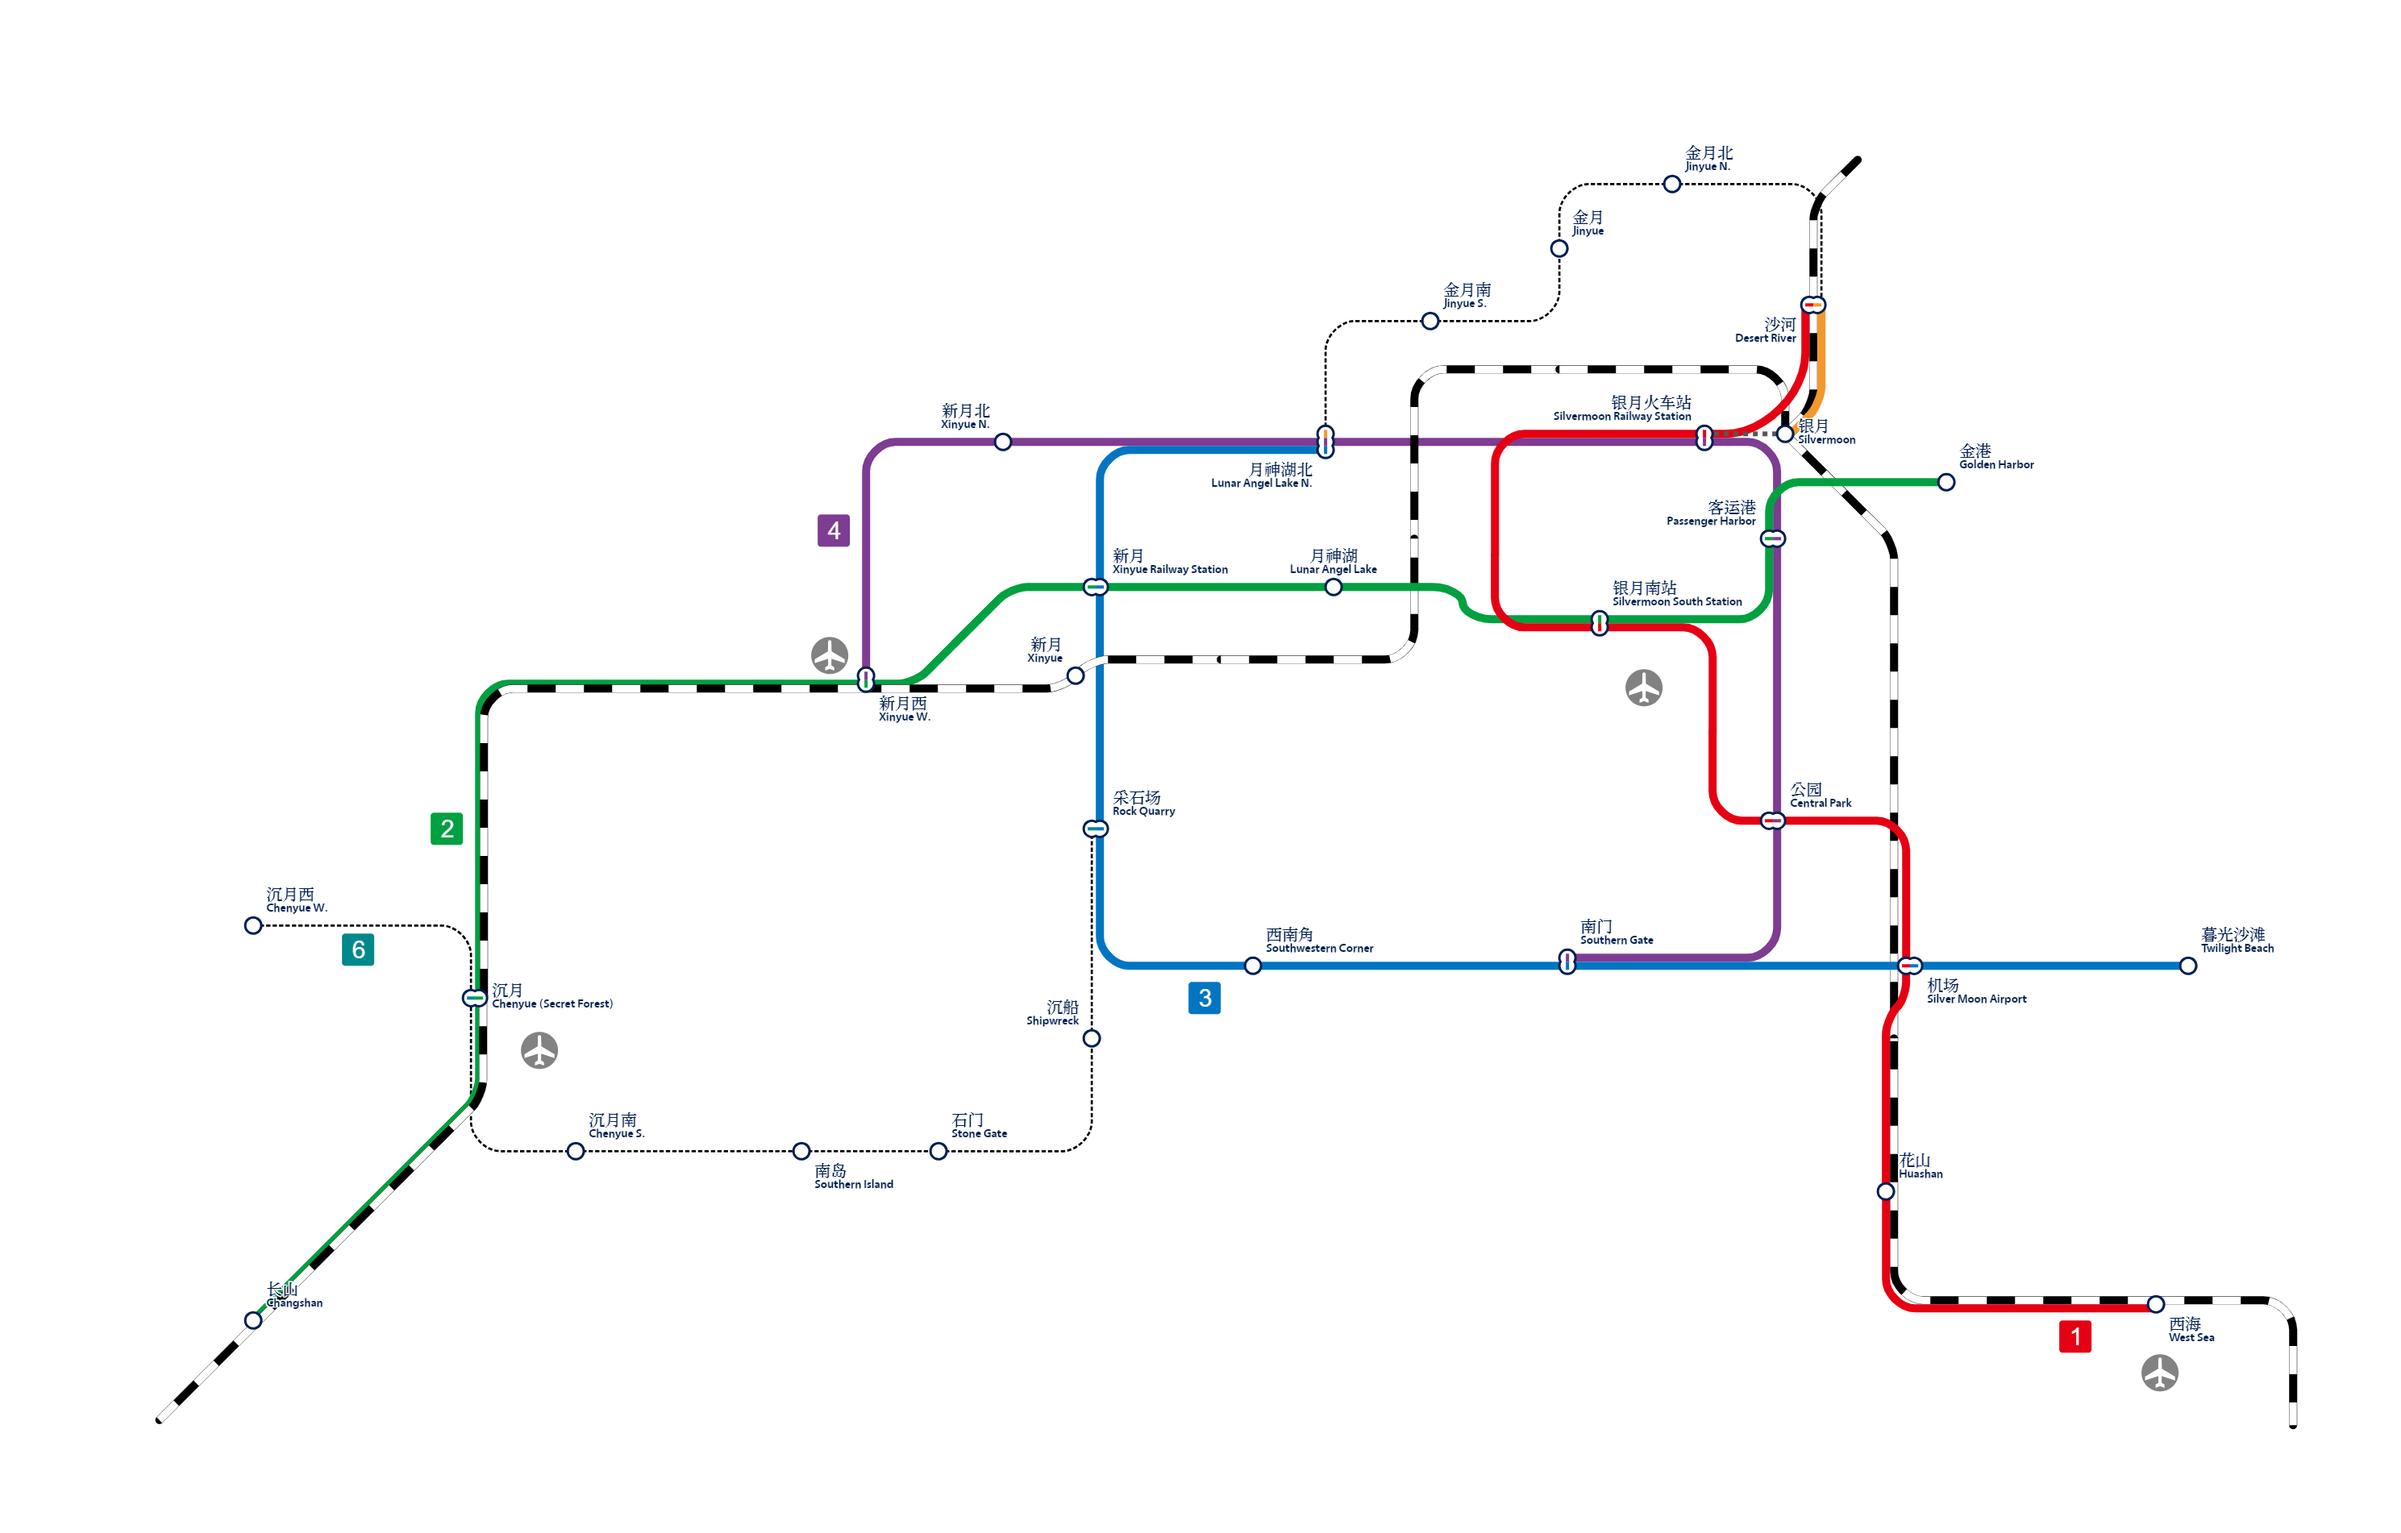
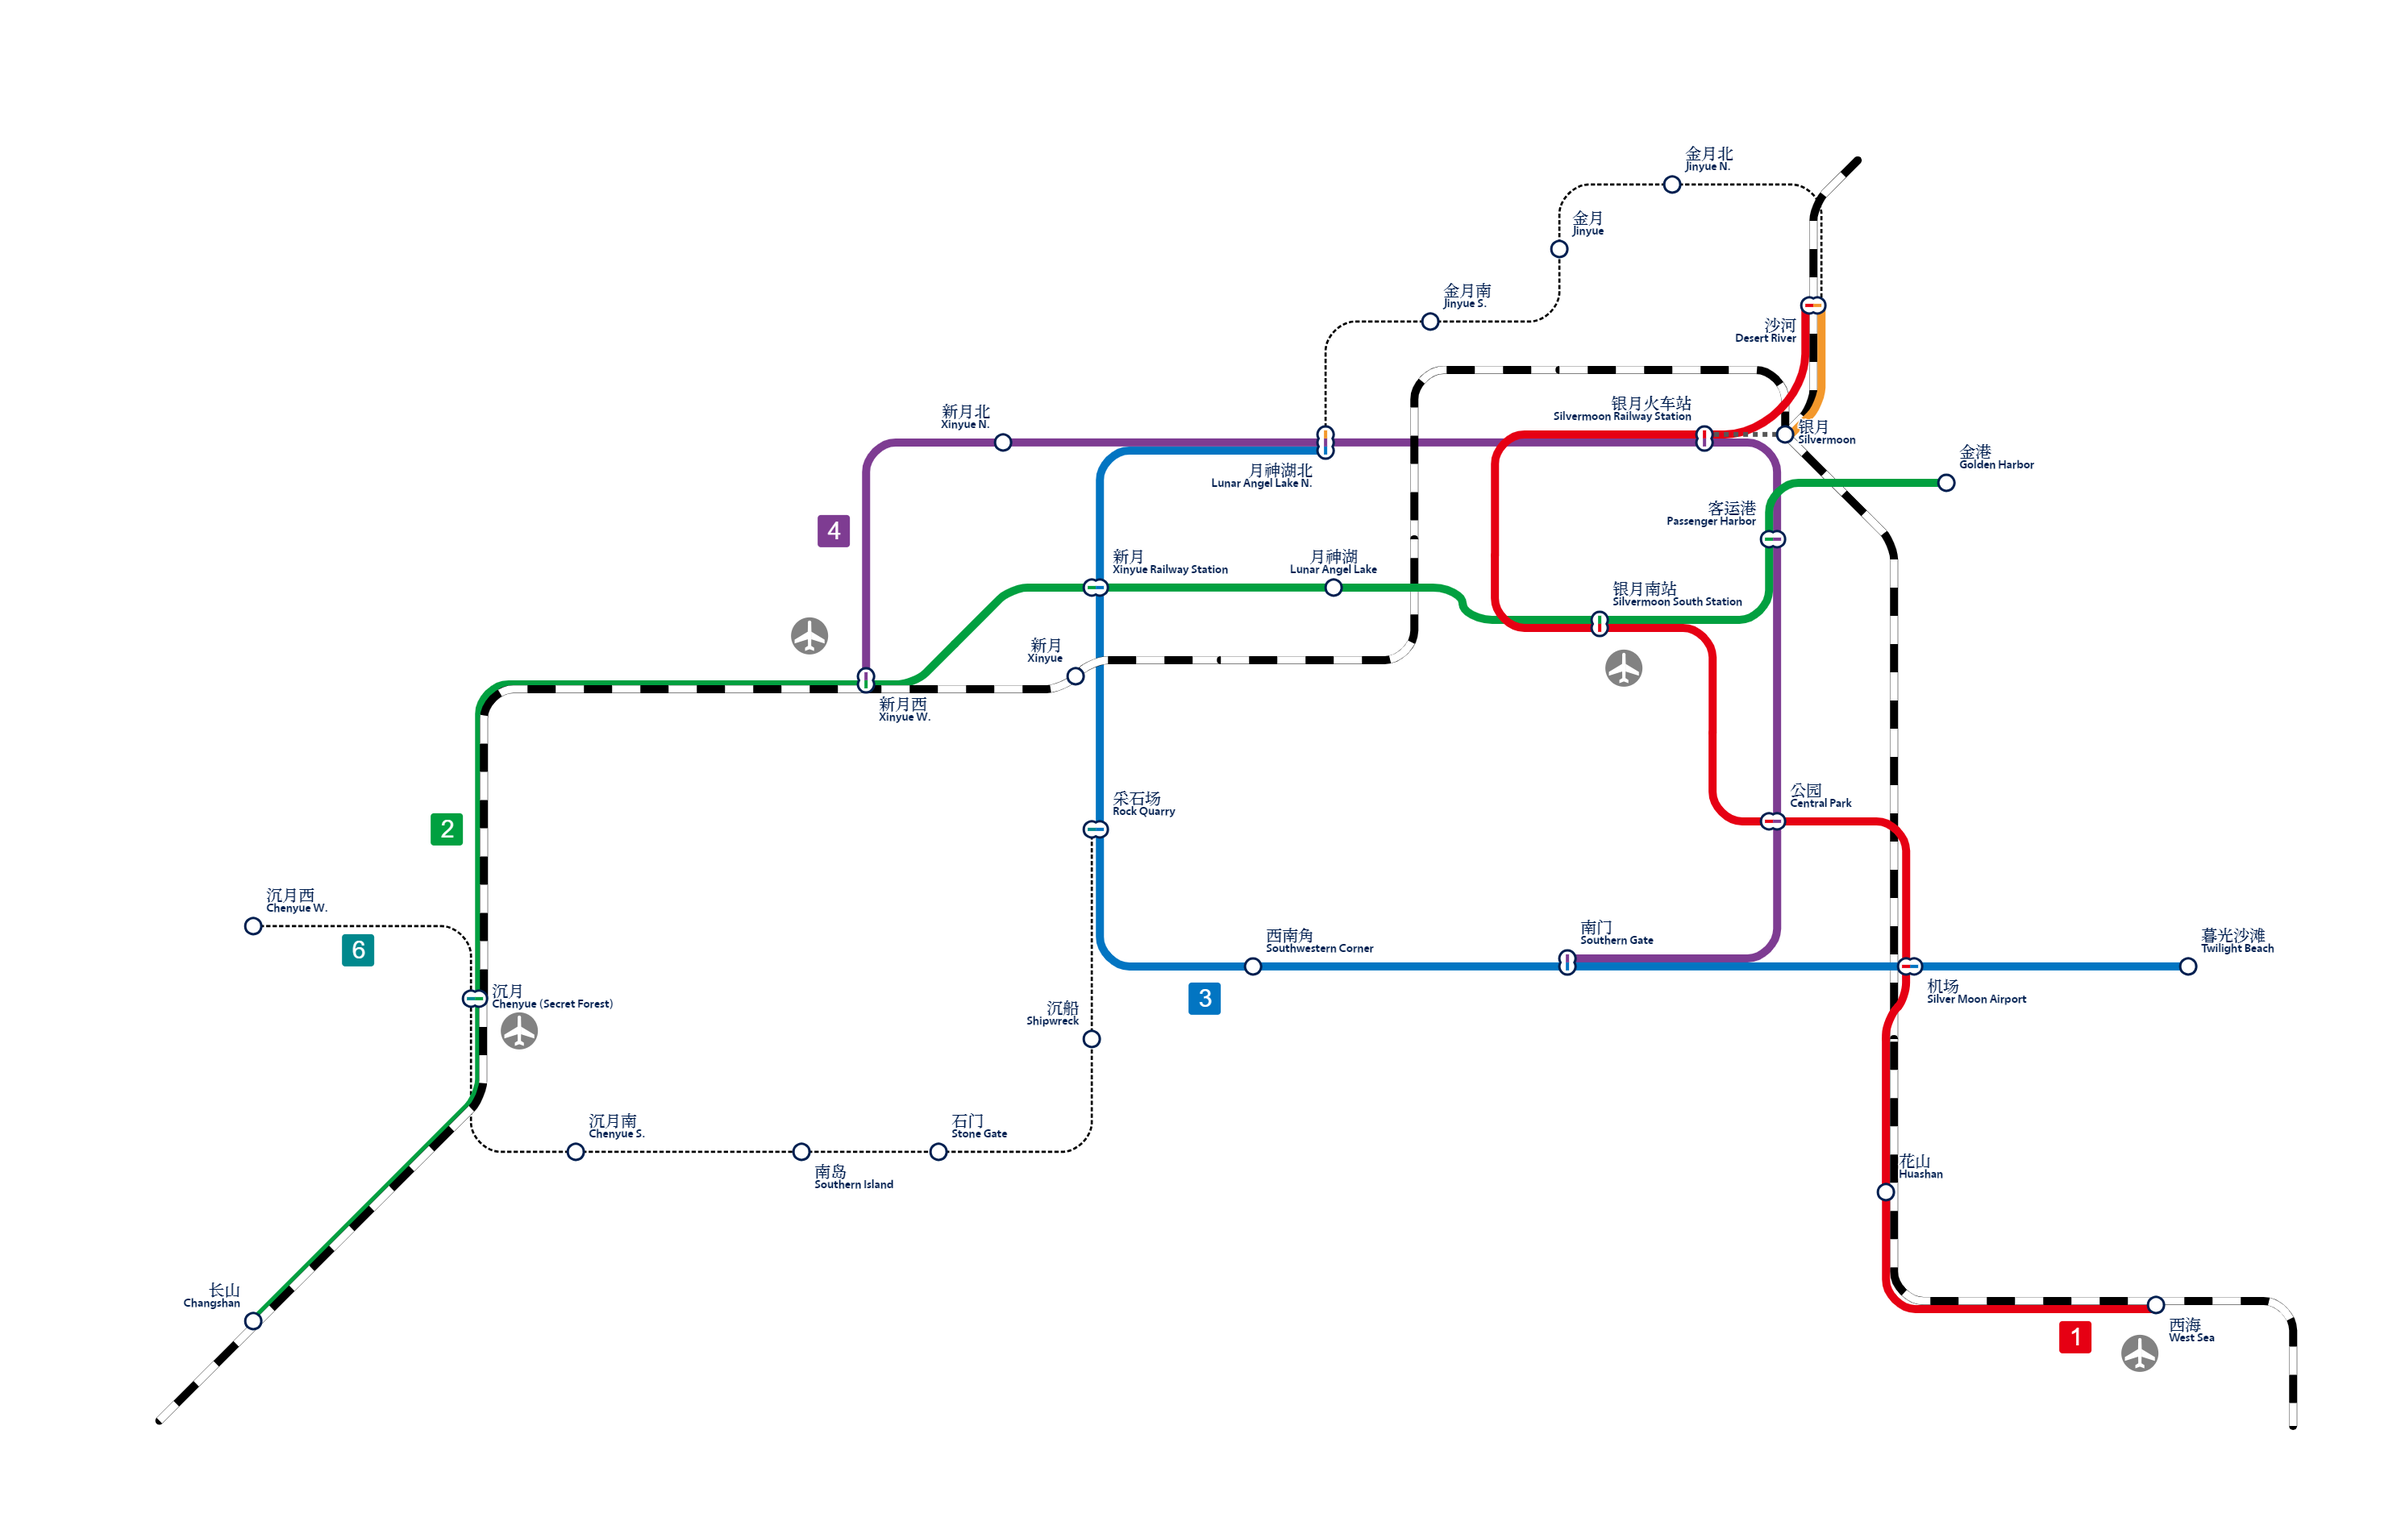
银月地铁规划更新及金月区添加

diff --git a/docs/SurvivalIII/silvermoon/silvermoon.md b/docs/SurvivalIII/silvermoon/silvermoon.md
@@ -29,6 +29,10 @@
 
 银月的西郊区，原名「密林谷」。
 
+### [金月区](jinyue_district.md)
+
+银月的北郊区。
+
 ## 主要建筑
 
 ### 银月火车站
@@ -65,11 +69,11 @@
 
 ## 铁路规划
 
-- **1 号线**：沙上 — 西海，「机场（不含） — 西海」贯通国铁北矿线，在沙上站/银月北线路所接入北原线，共 7 站；
-- **2 号线**：金港 — 沉月，「新月（不含） — 沉月」段贯通国铁月岩线，共 7 站；
+- **1 号线**：沙河 — 西海，「机场（不含） — 西海」贯通国铁月矿线，在沙河站/银月北线路所接入月原线，共 7 站；
+- **2 号线**：金港 — 长山，「新月（不含） — 长山」段贯通国铁月岩线，共 8 站；
 - **3 号线**：月神湖北 — 暮光沙滩，「南门 — 月神湖北」段与 4 号线建设联络线成环线，共 7 站；
-- **4 号线**：新月西 — 南门，「月神湖北 — 南门」段与 3 号线建设联络线成环线，共 7 站;
-- **5 号线**：采石场 — 沉月西，远景规划线路，单线路面有轨电车，共 7 站。
-- *未来视北部发展情况可能会有额外的线路建设规划。*
+- **4 号线**：南门 — 新月西，「月神湖北 — 南门」段与 3 号线建设联络线成环线，共 7 站;
+- **5 号线**：银月火车站 — 月神湖北，「银月火车站 — 新月（不含）」段贯通国铁月原线，共 6 站；
+- **6 号线**：沉月西 — 采石场，远景规划线路，单线路面有轨电车，共 7 站。
 
 ![银月铁路规划图](../../../assets/SurvivalIII/silvermoon_railmap.png)

diff --git a/docs/SurvivalIII/silvermoon/jinyue_district.md b/docs/SurvivalIII/silvermoon/jinyue_district.md
@@ -1,0 +1,8 @@
+# 银月 · 金月区
+
+> 提示  
+  该文章正在编写中。在该窗口被移除前，请不要对文章内容进行进一步的修改与提交。
+
+## 概述
+
+银月的北郊区，是规划的农业、畜牧业集中区域。
